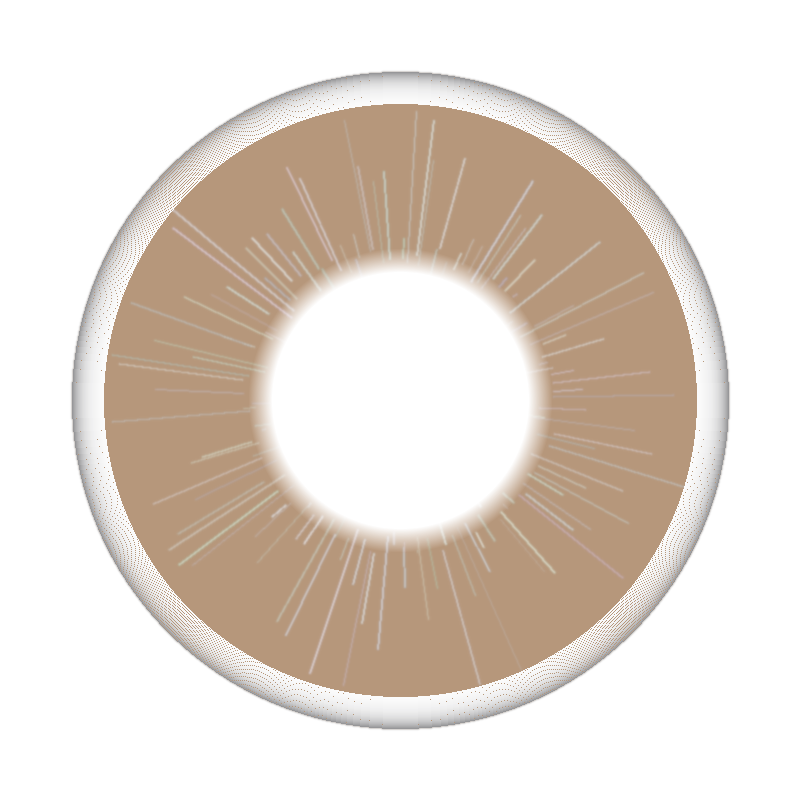
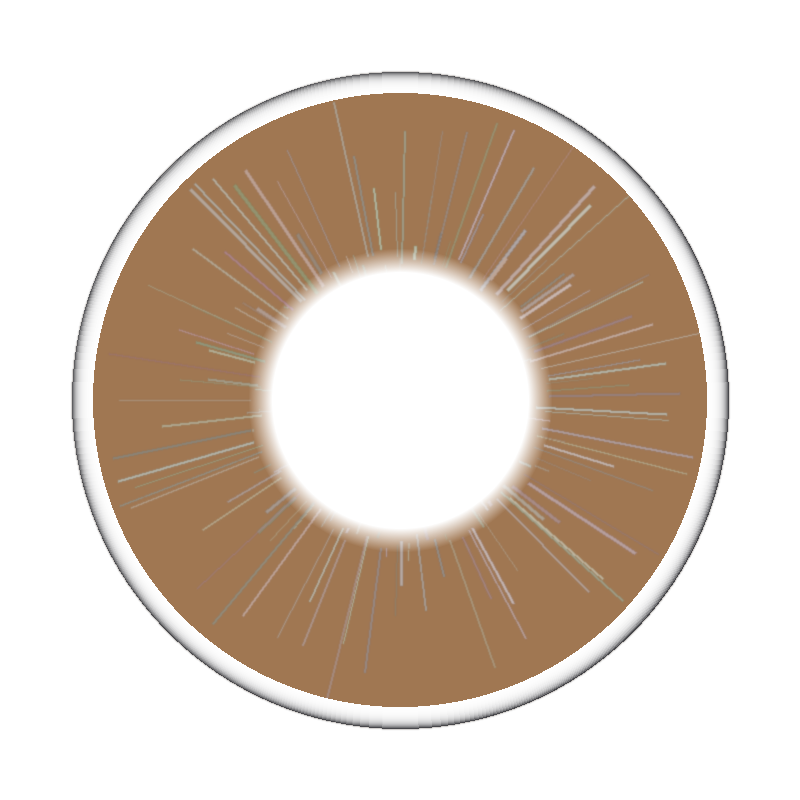
Fix scale=1.22 exact iris fit, higher opacity lens texture for dark eyes

diff --git a/app.js b/app.js
@@ -106,10 +106,9 @@ function irisCenterAndRadius(landmarks, indices, w, h) {
 
 function drawLensOnEye(lensImg, cx, cy, radius) {
   if (!lensImg.complete || lensImg.naturalWidth === 0) return;
-  // Lens PNG colored zone occupies 0~41% from center (out of 50%).
-  // To make colored zone match actual iris: scale = 1 / (0.41/0.5) = 1.22
-  // Add 15% extra so lens covers iris edge like real contact lenses → 1.4
-  const scale = 1.4;
+  // Lens PNG: colored zone outer edge = 41% of half-image = 328/400 = 0.82 ratio
+  // To map colored zone exactly onto detected iris: scale = 1/0.82 = 1.22
+  const scale = 1.22;
   const size = radius * scale * 2;
   ctx.drawImage(lensImg, cx - size / 2, cy - size / 2, size, size);
 }